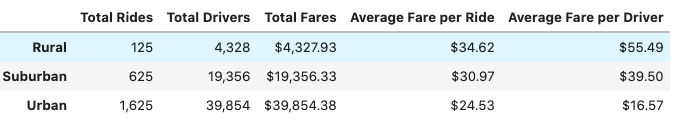
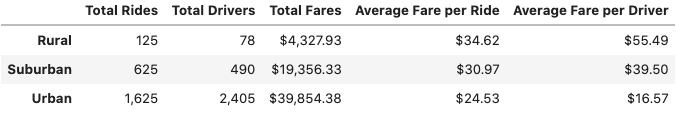
add README edits and rearrange image files

diff --git a/README.md b/README.md
@@ -5,24 +5,37 @@ Data Bootcamp Challenge, Week 5
 This task involves examining ride-sharing data for three different types of cities, based on size: urban, suburban, and rural. Data are summarized in a Pandas DataFrame (tabular format) and then total weekly fares are plotted with Matplotlib in a multiple-line graph. This report summarizes differences among the city types that became apparent when examining the data, with the goal of informing decision-making at the parent company, Pyber.
 
 ## Results
-
 A summary of the data is shown below.
 
-
+![dataframe showing summary of analysis](https://github.com/larabjork/pyber-analysis/blob/main/analysis/summary_data_frame.png)
 
 ### Total Rides by City Type
-The number of rides appears to correlate with city type and therefore population size. The number of suburban rides is 5 times greater than the number of rural rides, and the number of urban rides is 2.6 times greater than the number of suburban rides and 13 times greater than the number of rural rides.
+The number of rides appears to correlate with city type and therefore population size. The number of suburban rides is 5 times greater than the number of rural rides, and the number of urban rides is almost 3 times greater than the number of suburban rides and 13 times greater than the number of rural rides.
 
-### Total Drivers by City Typesummar
+### Total Drivers by City Type
+The number of drivers also appears to correlate with city type and therefore population size. The number of suburban drivers is 6.3 times greater than the number of rural drivers, and the number of urban drivers is 4.9 times greater than the number of suburban drivers and 31.8 times greater than the number of rural drivers.
 
-### Total Fares ???
+### Total Fares by City Type for All Dates
+Total fares follow a similar pattern to the total rides, not surprisingly. The total fares for suburban trips are 4.5 times greater than the total fares for rural trips, and the total fares of urban trips is 2.1 times greater than the total fares for suburban trips and 9.2 times greater than the total fares for rural trips.
 
 ### Average Fare per Ride by City Type
+Average fares per ride are greatest among rural trips, followed by suburban and then urban trips. Rural riders are likely taking longer trips than their counterparts in other city types, meaning that they must pay more per ride.
 
-### Total Fares by City Type
-There is a description of the differences in ride-sharing data among the different city types. Ride-sharing data include the total rides, total drivers, total fares, average fare per ride and driver, and total fare by city type. (7 pt)
+### Average Fare per Driver by City Type
+The pattern for average fares per driver is the same as for average fares per ride: greatest among rural trips, followed by suburban and then urban trips. Rural drivers are earning more per ride their counterparts in other city types.
+
+### Total Fares by City Type for January through April 2019
+A closer look at four months of data for total fares by city type is presented below.
+![line chart showing 2019 data by city type](https://github.com/larabjork/pyber-analysis/blob/main/analysis/PyBer_fare_summary.png)
+
+As shown in this chart:
+* There is some variation in total fares within each type of city over this time period, but for a given city type, the variation is not too dramatic.
+* In late February and early March, all cities show a roughly similar pattern of higher use dropping off, perhaps due to weather. This is worthy of further investigation.
+
 ## Summary
+Pyber's commitment to transportation equity is most challenged in rural areas. On one hand, drivers in rural areas are able to earn more per ride, which is good for the drivers. On the other hand, rural riders must pay more per ride, which may be a limiting factor in their use of Pyber services. Pyber should consider exploring partnerships with local government/social service agencies to see if there are subsidy programs that could ease the burden on riders.
 
-Despite Pyber's commitment to transportation equity, the disparities among the city types are strong. To ameliorate these disparities, Pyber has several options to consider:
+A closer look at other transportation options available in each city type could be instructive. It is most likely that urban residents have the most options, and understanding the competition in larger cities is key to building Pyber's market share in these environments.
 
+As noted in the January through April data, an examination of weather patterns versus ride frequency could be instructive. Are riders more likely to use Pyber services if the weather is cold and/or rainy? Are drivers less likely to drive in these conditions? Knowing more about behavior could help Pyber adjust strategy in driver recruitment and rider advertising.
 
